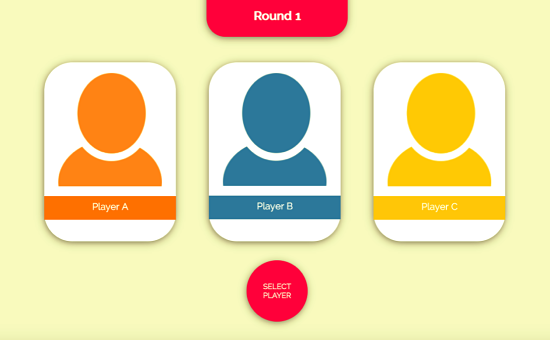
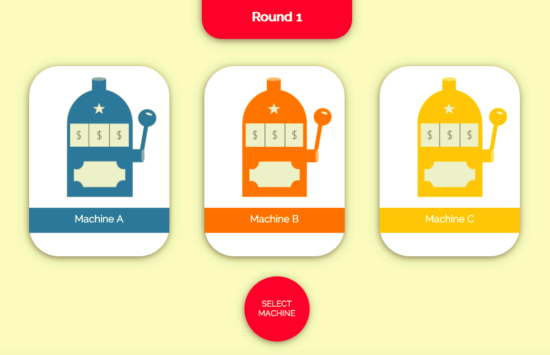
Replace instructions images

diff --git a/src/app/game/game.component.html b/src/app/game/game.component.html
@@ -15,14 +15,15 @@
   <div class="participant card player">
     <div class="player-info">
       <img [src]="playerImgPath">
-        <div class="player-name">{{ curParticipantService.name | capitalize}}</div> 
+      <!--        <div class="player-name">{{ curParticipantService.name | capitalize}}</div>  -->
+      <div class="player-name">You</div>
     </div>
   </div> <!-- #participant -->
 
   <div class="interactive-panel">
     <div class="interactive-elements" [@flip]="flip">
       <div class="endowmment flip-side card">
-        <p>How much would you like to invest?</p>
+        <p>How much would you like to bet?</p>
         <form id="endowment-form" (ngSubmit)="setEndowment()">
           <input type="range" name="endowmentSlider" [(ngModel)]="this.endowment" min="0.1" max="1" value=".5" step=".1"> 
           <div id="endowment-amount">{{ endowment | currency : 'USD' : true : '1.2-2' }}</div>
@@ -31,7 +32,7 @@
       </div>
 
       <div class="feedback flip-side card">
-        <p>You invested <strong>{{ endowment | currency:'USD':true:'1.2-2' }}</strong>, and kept 
+        <p>You bet <strong>{{ endowment | currency:'USD':true:'1.2-2' }}</strong>, and kept 
           <strong>{{ (1 - endowment).toFixed(2) | currency:'USD':true:'1.2-2' }}</strong> for yourself.</p>
         <p>{{ opponent.player.name }} received <strong>{{ (endowment * 4).toFixed(2) | currency:'USD':true:'1.2-2' }}</strong> and returned 
           <strong>{{ oppReturn | currency:'USD':true:'1.2-2' }}</strong> to you.</p>
